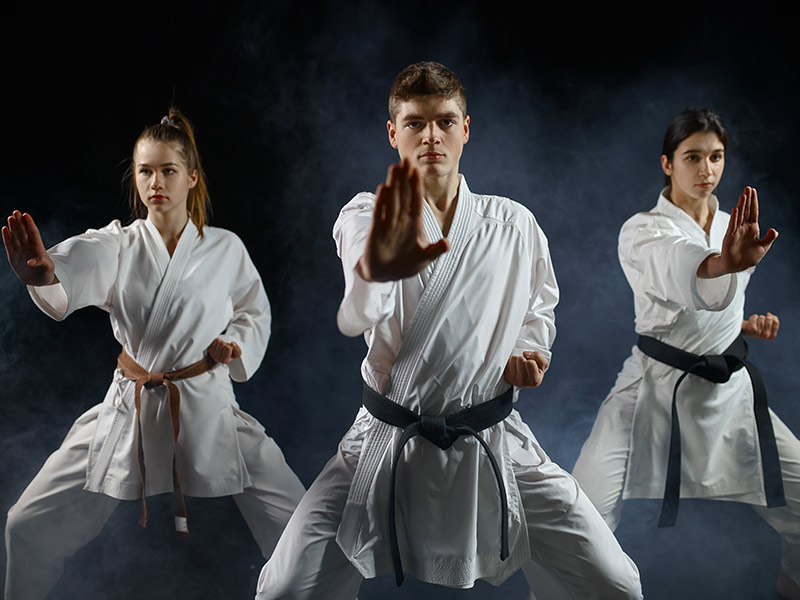
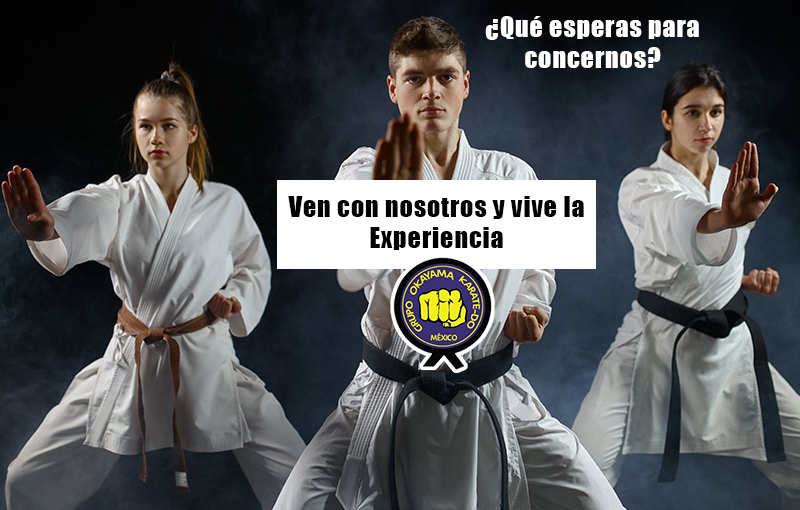
changing cover style

diff --git a/src/Components/Landing/Landing2.css b/src/Components/Landing/Landing2.css
@@ -30,4 +30,70 @@ align-items: center;
     justify-content: center;
     align-items: center;
     flex-wrap: wrap;
+    margin-top: 30px;
+}
+.coverText{
+    background-color: white;
+    padding: 10px;
+    position: relative;
+    left: 35%;
+    bottom: 500px;
+    font-size: xx-large;
+    font-family: 'Lucida Sans', 'Lucida Sans Regular', 'Lucida Grande', 'Lucida Sans Unicode', Geneva, Verdana, sans-serif;
+    cursor: pointer;
+}
+.coverText:hover{
+    /* background-color: black;
+    color: white; */
+    animation-name: hoverText;
+    animation-duration: 0.2s;
+    animation-fill-mode: forwards;
+    animation-timing-function: linear;
+}
+.coverText2{
+    background-color: white;
+    padding: 10px;
+    position: relative;
+    left: 35%;
+    bottom: 550px;
+    font-size: xx-large;
+    font-family: 'Lucida Sans', 'Lucida Sans Regular', 'Lucida Grande', 'Lucida Sans Unicode', Geneva, Verdana, sans-serif;
+    cursor: pointer;
+}
+.coverText2:hover{
+    /* background-color: black;
+    color: white; */
+    animation-name: hoverText;
+    animation-duration: 0.2s;
+    animation-fill-mode: forwards;
+    animation-timing-function: linear;
+}
+/* .divisor{
+    display: flex;
+    justify-content: center;
+    align-items: center;
+    background-color: black;
+    height: 3px;
+    width: 90%;
+    border: 3px dashed black;
+    position: absolute;
+    top: 50px;
+} */
+@media (max-width: 920px) {
+    .coverText{
+        font-size: large;
+        bottom: 150px;
+    }
+    .coverText2{
+        font-size: large;
+        bottom: 150px;
+    }
+}
+@keyframes hoverText {
+
+    100%{
+        background-color: black;
+        color: white;
+    }
+    
 }

diff --git a/src/Components/Landing/Landing2.js b/src/Components/Landing/Landing2.js
@@ -18,15 +18,29 @@ import decimoKyu from '../../Assets/decimokyu.png'
 import cintaNegra from '../../Assets/cintanegra.png'
 import Feature from './Feature/Feature';
 import Extra from './Extra/Extra';
+import { useNavigate } from 'react-router-dom';
 
 
 function Landing2() {
+    let nav = useNavigate()
     return ( <>
     
         <div className='coverContainerL2'>
             <img className='coverImgL2' src={coverKarate}/>
+            <h3 className='coverText' onClick={() => {nav('/Conocenos')}}>Conócenos</h3>
+            <h3 className='coverText2' onClick={() => {nav('/location')}}>Inscríbete</h3>
+            {/* <div className='divisor'></div> */}
         </div>
+        <div style={{
+                display: 'flex',
+                justifyContent: 'center',
+                marginTop: '-120px',
+                fontSize: 'xx-large',
+                fontFamily: 'Lucida Sans'
 
+            }} >
+                ¿Quién puede entrenar?
+            </div>
         <div className='plansContainerL2'>
             <Plan 
                 title = {'Pre-Karate'}
